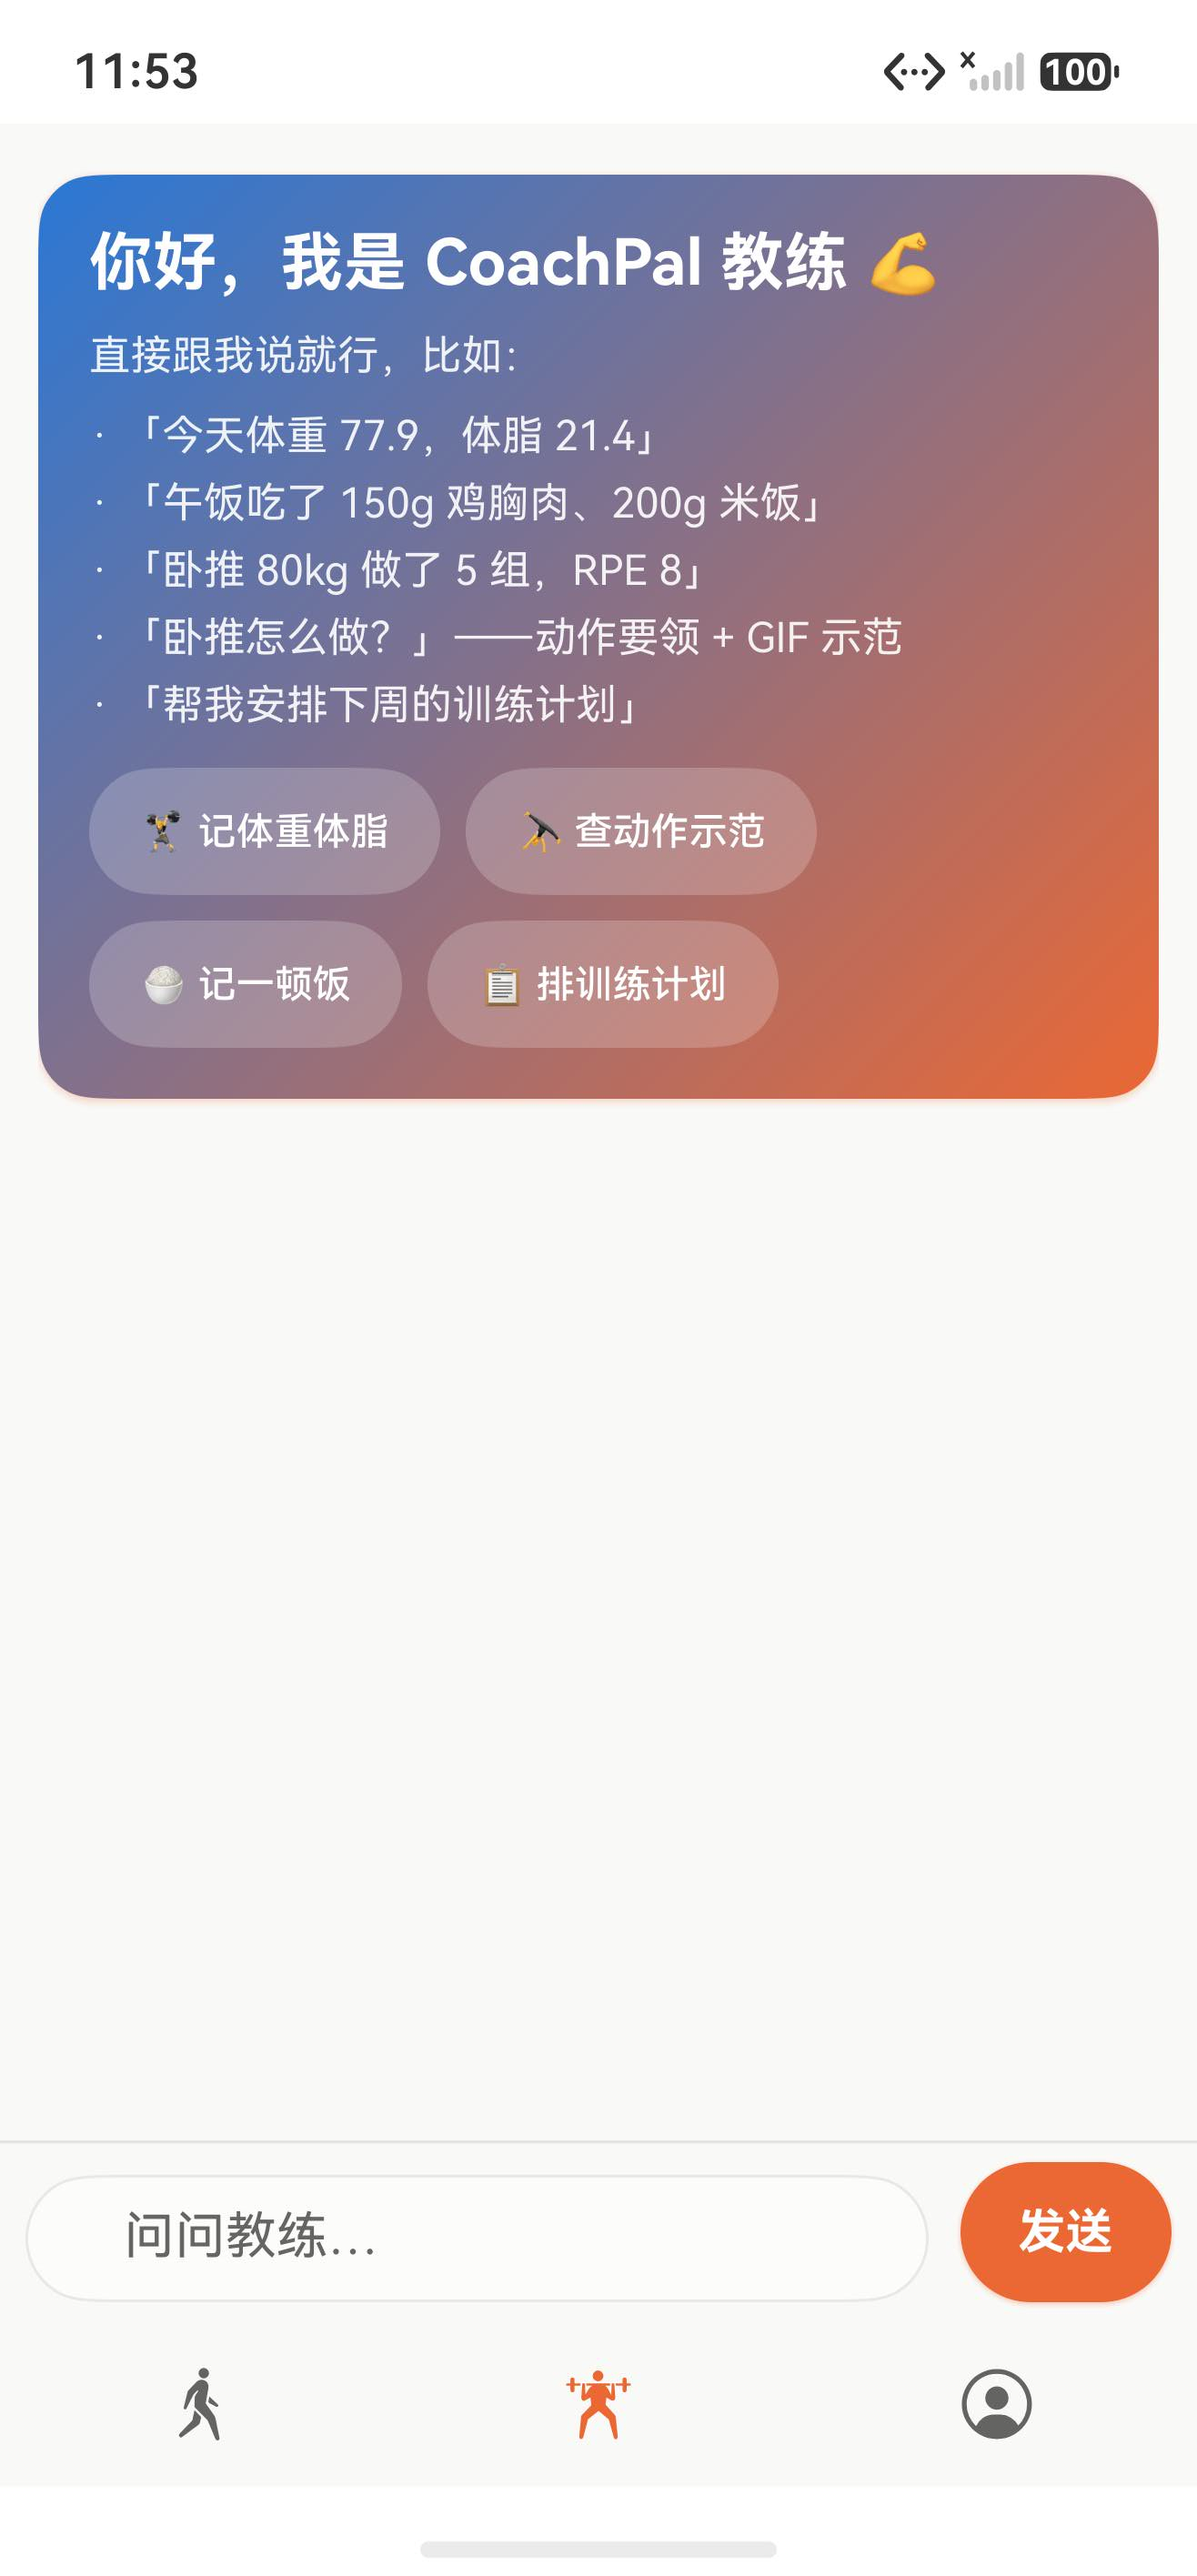
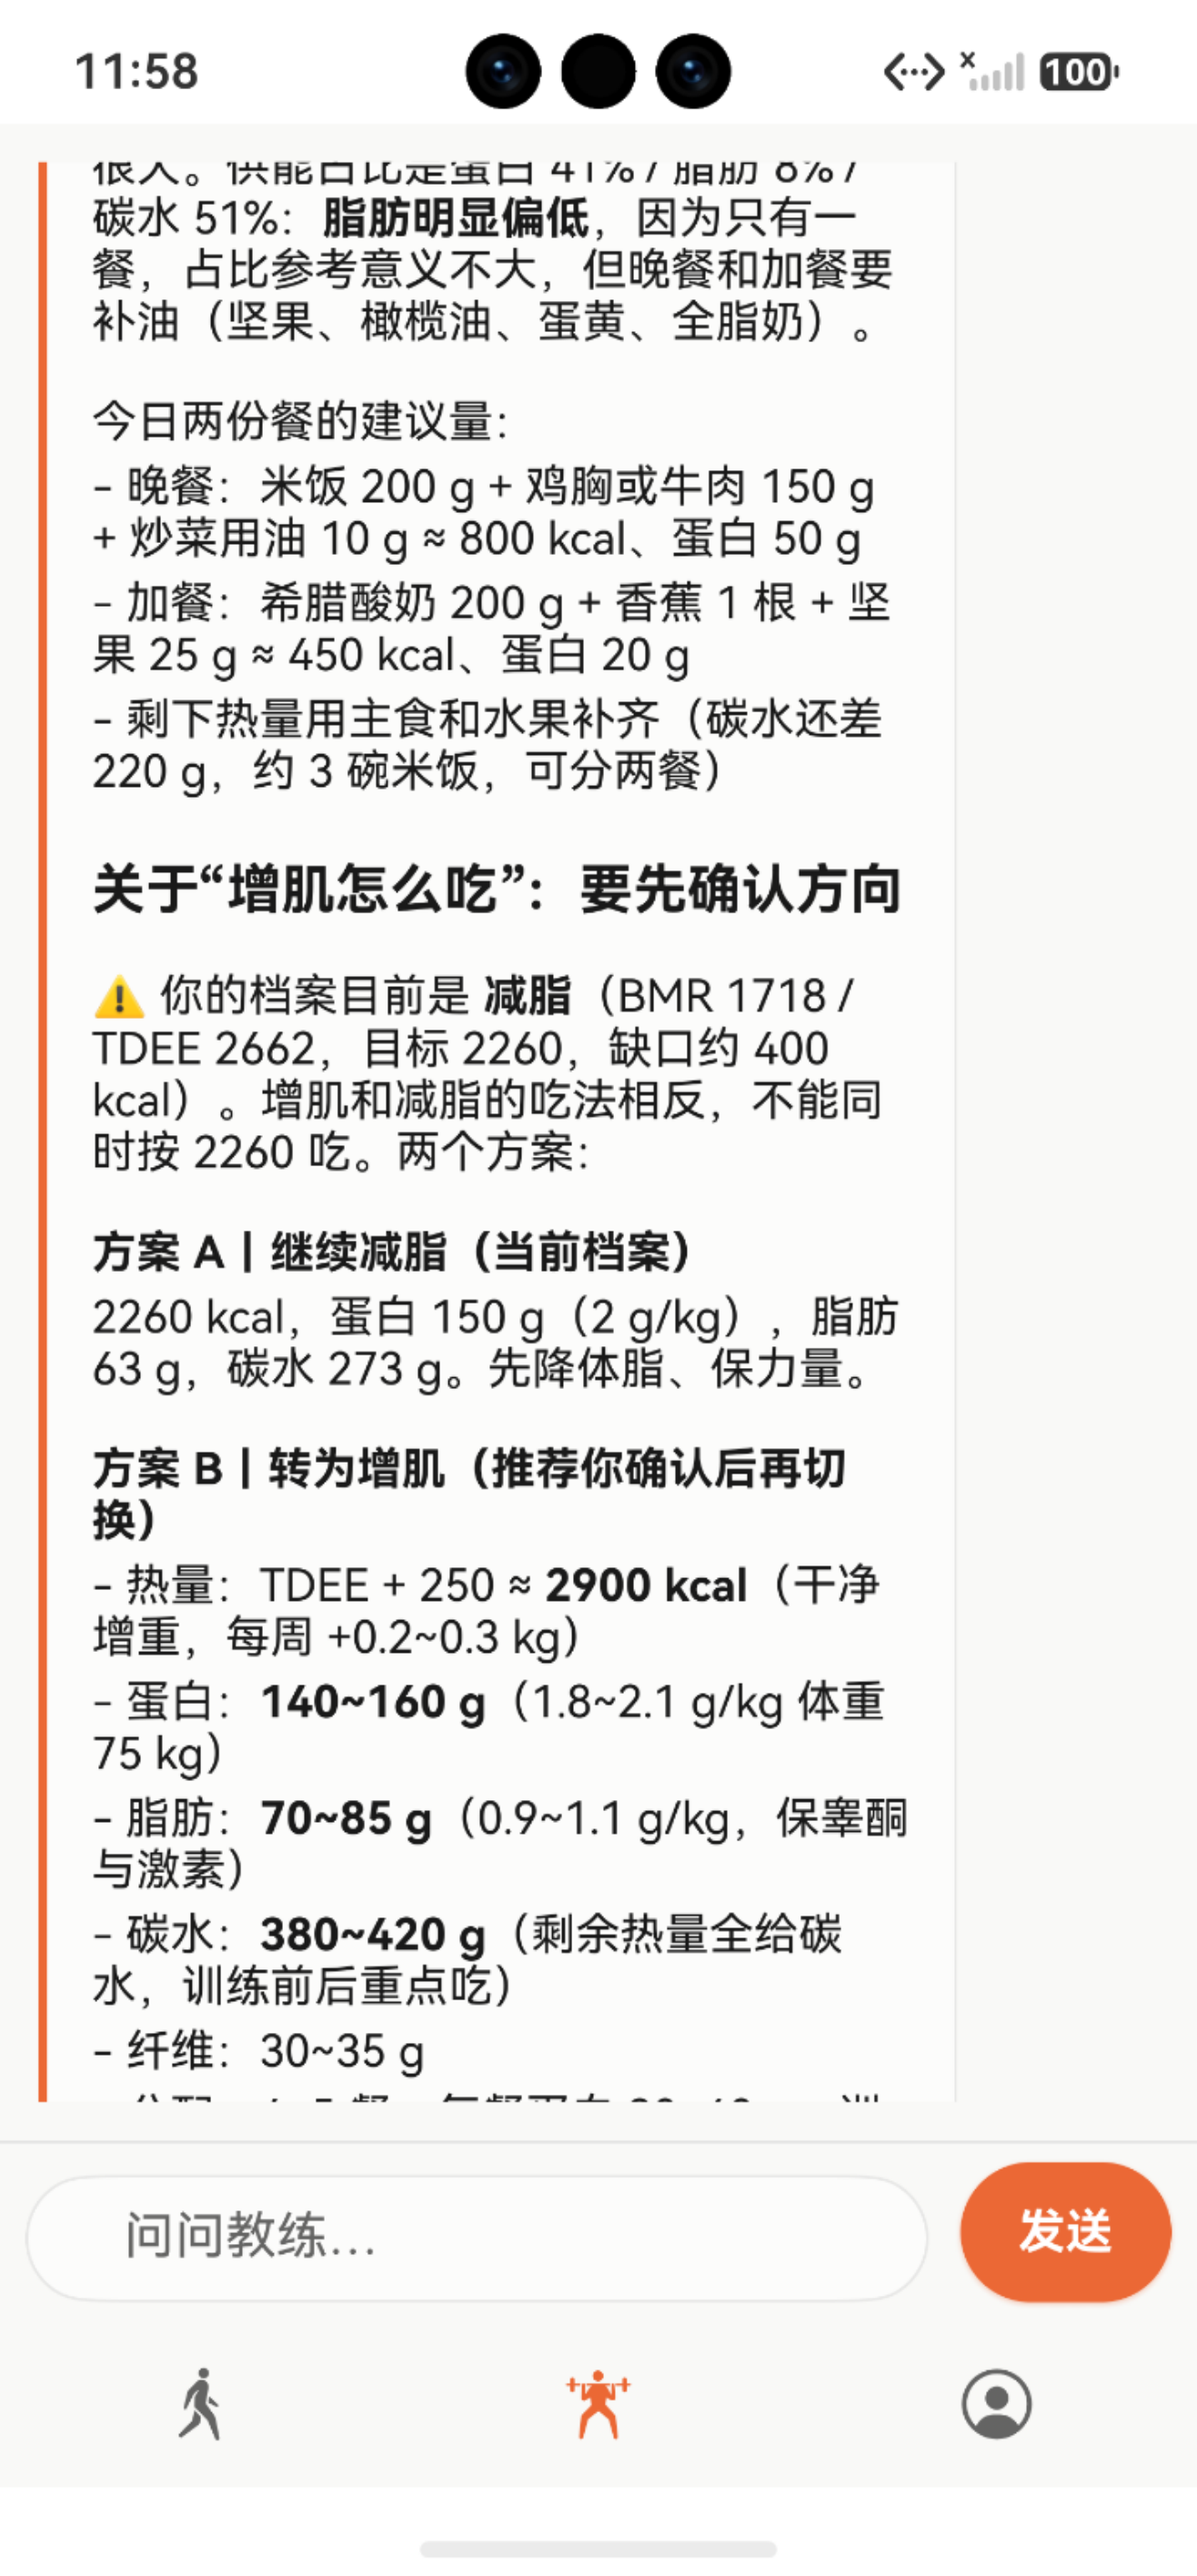
应用中文名定为「练伴」：桌面名与应用内品牌统一
- app_name → 练伴（桌面/AGC 提交名），模块描述同步
- 教练欢迎卡 / 我的页品牌名改为「练伴」
- README 标题「练伴 CoachPal」并注明中文名含义（训练伙伴）

diff --git a/README.md b/README.md
@@ -1,6 +1,6 @@
-# CoachPal
+# 练伴 CoachPal
 
-鸿蒙原生健身与饮食记录 App（ArkTS/ArkUI，Stage 模型，bundleName `com.coachpal.app`）。**仓库根目录即 DevEco 工程**，无服务端依赖，数据全部本地。
+鸿蒙原生健身与饮食记录 App，中文名**练伴**（训练伙伴）。ArkTS/ArkUI，Stage 模型，bundleName `com.coachpal.app`。**仓库根目录即 DevEco 工程**，无服务端依赖，数据全部本地。
 
 - 记录身高、体重、体脂率、骨骼肌量、围度
 - 记录力量训练（自动估算 1RM）和每次训练的动作/组数/重量/次数
@@ -13,13 +13,11 @@
 
 | 教练问答 | 问答示例 |
 | --- | --- |
-| <img src="docs/screenshots/chat-qa.jpeg?v=2" width="270"/> | <img src="docs/screenshots/qa.jpeg?v=2" width="270"/> |
+| <img src="docs/screenshots/chat-qa.jpeg?v=2" width="270"/> | <img src="docs/screenshots/chat.jpeg?v=2" width="270"/> |
 | **身体概览** | **趋势** |
 | <img src="docs/screenshots/overview.jpeg?v=2" width="270"/> | <img src="docs/screenshots/trends.jpeg?v=2" width="270"/> |
 | **我的** | **AI 服务** |
 | <img src="docs/screenshots/profile.jpeg?v=2" width="270"/> | <img src="docs/screenshots/ai-config.jpeg?v=2" width="270"/> |
-| **个人档案** | **欢迎卡** |
-| <img src="docs/screenshots/profile-edit.jpeg?v=2" width="270"/> | <img src="docs/screenshots/chat.jpeg?v=2" width="270"/> |
 
 ## 快速开始
 
